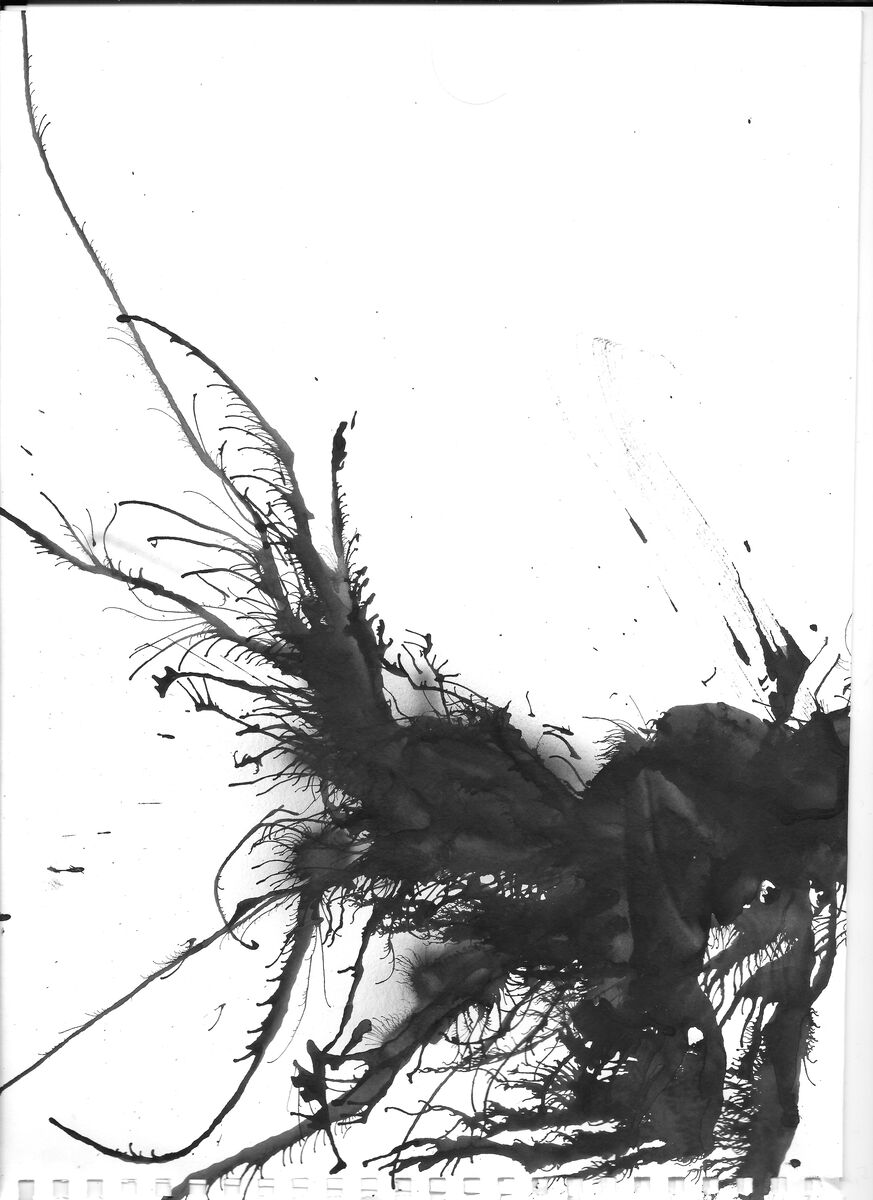
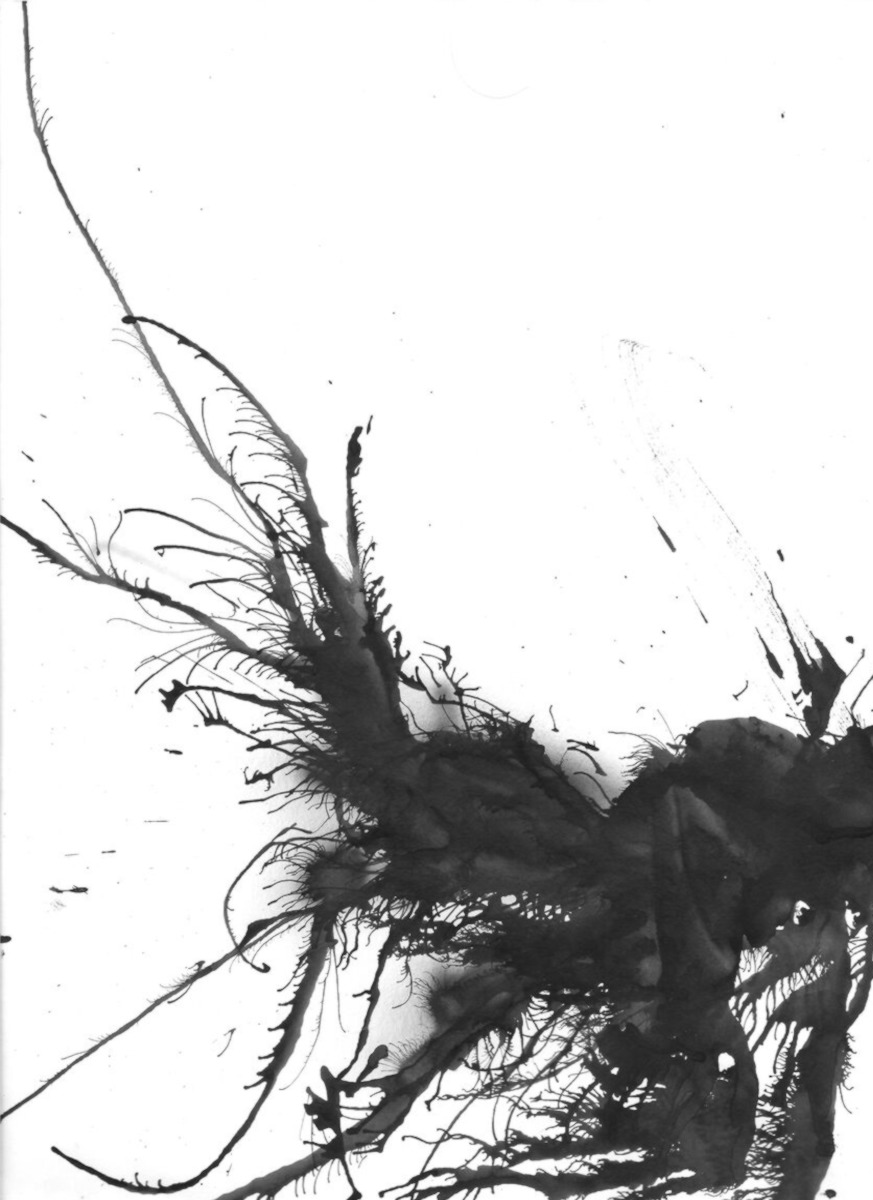
docs(blog): add writing style guide
Derive Daniel's voice from the only published post and point AGENTS.md at it. Refresh the ink-pull texture export.

diff --git a/docs/writing-style.md b/docs/writing-style.md
@@ -1,0 +1,85 @@
+# Writing style
+
+Derived from `src/content/blog/hello-universe.md` (2026-10-05), the only published post. Treat
+it as the house voice until more posts exist, then re-check this file against the newer ones.
+
+## Voice
+
+- First person, reflective, unhurried. Daniel is thinking out loud with the reader, not
+  announcing conclusions: "I suspect", "I've found myself", "my own rule has become".
+- Argues against a false binary and settles somewhere in the middle. The post rejects
+  "is agentic development good or bad" as the wrong question before proposing a better one.
+- Inclusive "we/our/us" for the industry ("many of us let go of the wheel"), "I" for his own
+  practice. Never second-person marketing ("you'll love this").
+- Confident where he has a rule, hedged where he is guessing. Hedge words are load-bearing:
+  "probably", "in practice", "maybe". Do not stack hedges into mush.
+- Dry, understated humour instead of jokes: "Other times, it confidently drives directly into
+  a wall." Deadpan, one clause, never signposted.
+
+## Shape
+
+- Opens on a familiar idea or cliché the reader already believes, then turns it: "It's been a
+  polarising time...", "If you want something done right, do it yourself is a cliché for a
+  reason."
+- One extended everyday metaphor per essay, carried to the last line. Here it is driving: the
+  wheel, driving into a wall, a self-driving car, "my hands close enough to the wheel".
+  Pick the metaphor early and return to it in the close.
+- Section headings are lowercase, short and conversational: "taking the wheel", "following
+  your guidance", "be careful what you ask for", "the weird middle". Headings are signposts,
+  not summaries, and numbering is used only when it helps (1., 2., then dropped).
+- Ends on a personal, resolved beat that calls back the opening image. No summary, no
+  "in conclusion", no call to action, no links, no lists.
+
+## Rhythm
+
+- Paragraphs run two to five sentences. A single-sentence paragraph is the punch:
+  "At some point, many of us let go of the wheel."
+- Long, comma-rolling sentences alternate with short declaratives. The short one carries the
+  point; the long one sets it up.
+- Colons introduce elaboration, lists of questions, or the payoff. Semicolons are rare (one in
+  the whole post) and em dashes are absent.
+- Lists of specifics beat abstractions: "add a field, change an API, fix a bug, write tests,
+  refactor something".
+
+## Rhetorical moves (reuse these, in moderation)
+
+- **The rule in bold**: one sentence, stated plainly, then defended.
+  "**if you don't feel comfortable with what you're producing using agents, don't ship it.**"
+- **Question clusters** to expose vagueness: three or four questions in a row, ending on the
+  one that matters.
+- **Concession, then reversal**: "That sounds trivial, but...", "That's impressive in the same
+  way a self-driving car completing a journey is impressive, but it isn't necessarily the
+  metric that matters."
+- **Distinction as thesis**: "handing over execution and handing over judgement are two very
+  different things."
+- **Scepticism of metrics and hype**: measure the result, not how little you did.
+- **Analogy to non-AI engineering practice**: tech leads and architects have always done this.
+
+## Diction and mechanics
+
+- British spelling throughout: learnt, polarising, optimise/optimising, behaviour.
+- Curly apostrophes and quotes. Double quotes for quoted speech and hypotheticals, italics for
+  a single emphasised word (_good_), bold only for the core rule.
+- Intensifiers used sparingly and with intent: genuinely, fairly, surprisingly, ridiculously,
+  extraordinarily.
+- Concrete nouns and plain verbs: field, test, build, endpoint, wheel. No jargon scaffolding
+  ("paradigm", "leverage", "synergy", "unlock").
+- No exclamation marks, no emoji, no bullet lists in prose, no code blocks in essay posts.
+- Frontmatter: lowercase title ("hello universe"), one long third-person description naming
+  the themes, lowercase kebab-case tags, single quotes.
+
+## Avoid
+
+- Listicles, "5 lessons", numbered takeaways, bolded key phrases every other paragraph.
+- Openers like "In today's fast-paced world" or "As developers, we all know".
+- Hedging every claim, or the opposite: absolutes about the future of the industry.
+- Explaining the joke or the metaphor.
+- Summary paragraphs that restate the headings.
+
+## Quick check before shipping a post
+
+1. Is there one clear idea, stated as a rule or distinction within the first third?
+2. Does one everyday metaphor run from start to finish and land in the last line?
+3. Are the headings lowercase, short and signposting rather than summarising?
+4. Does any paragraph restate a heading or the intro? Delete it.
+5. Read one paragraph aloud: if every sentence is the same length, break one.

diff --git a/AGENTS.md b/AGENTS.md
@@ -211,6 +211,7 @@ Before declaring a change complete:
 The `/blog` section renders Markdown posts from a content collection.
 
 - The collection schema lives in `src/content.config.ts` (glob loader + `z` from `astro/zod`); posts live in `src/content/blog/`.
+- Match Daniel's voice when writing or editing posts: see `docs/writing-style.md`.
 - Blog routes (`/blog`, `/blog/[slug]`, `/rss.xml`) are prerendered (`export const prerender = true` + `getStaticPaths`), unlike the rest of the server-rendered site. The sitemap admits them via the `/blog/` prefix rule in `astro.config.mjs`; prerendered routes are auto-discovered, so do NOT add `/blog` to `indexablePaths` (that produced a duplicate `/blog` + `/blog/`).
 - `src/lib/blog.ts` holds pure helpers (`postHref`, `publishedPosts`, `sortPostsByDate`, `formatDate`) with no `astro:content` import so they run under `node --test src/lib/blog.test.mjs`.
 - Giscus comment config (public, non-secret values) lives in `src/lib/giscus.ts`; the widget degrades to a muted note until populated.
